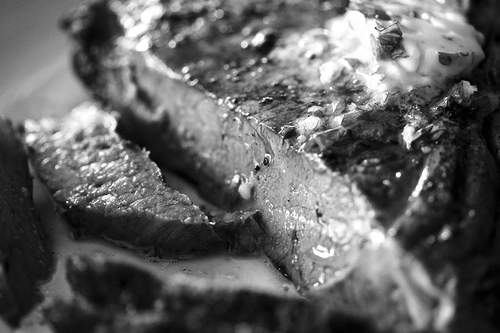
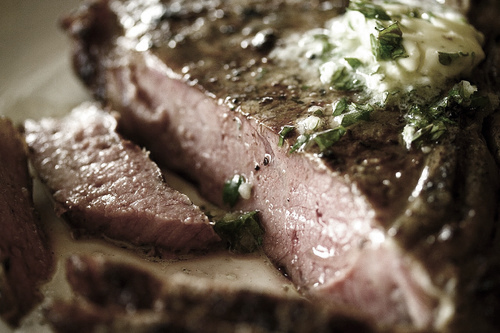
started blog section

diff --git a/app/assets/stylesheets/application.css b/app/assets/stylesheets/application.css
@@ -9,7 +9,7 @@ html,
 body {
   height: 100%;
   background-color: #fff;
-  background: url(/assets/grilled-steak.jpg) no-repeat center center fixed; 
+  background: url(grilled-steak.jpg) no-repeat center center fixed; 
   -webkit-background-size: cover;
   -moz-background-size: cover;
   -o-background-size: cover;
@@ -19,8 +19,30 @@ body {
 a { text-decoration: none; }
 a:hover { text-decoration: none; } 
 
+.panel-logged-in img 
+{
+  width: 280px;
+  height: 400px;
+  filter: grayscale(100%);
+  -webkit-filter: grayscale(100%);  /* For Webkit browsers */
+  filter: gray;  /* For IE 6 - 9 */
+  -webkit-transition: all .6s ease;  /* Transition for Webkit browsers */
+}
+
+.panel-logged-in img:hover 
+{
+  width: 280px;
+  height: 400px;
+  filter: none;
+  -webkit-filter: grayscale(0%);
+}
+
 .navbar {
-    background: rgba(0,0,0,0.7);
+  background: rgba(0,0,0,0.85);
+
+  box-shadow: inset 0 1px #000, 0 1px 3px rgba(34,25,25,0.4);
+  -moz-box-shadow: inset 0 1px #000, 0 1px 3px rgba(34,25,25,0.4);
+  -webkit-box-shadow: inset 0 1px #000, 0 1px 3px rgba(34,25,25,0.4);
 }
 
 h1, caption {
@@ -41,11 +63,16 @@ h2, legend {
 /* Override B3 .panel adding a subtly transparent background */
 .panel {
   margin-top: 60px;
-  background-color: rgba(0, 0, 0, 0.5);
+  background-color: rgba(0, 0, 0, 0.65);
   border: none;
   -webkit-border-radius: 7px;
   -moz-border-radius: 7px;
   border-radius: 7px;
+}
+
+.panel-logged-in {  
+  float: left;
+  overflow: hidden;
 }
 
 .white-font { color: white; }
@@ -59,7 +86,7 @@ h2, legend {
 }
 
 .background-landing {
-  background: url(/assets/grilled-steak-bw.jpg) no-repeat center center fixed; 
+  background: url(grilled-steak-bw.jpg) no-repeat center center fixed; 
   -webkit-background-size: cover;
   -moz-background-size: cover;
   -o-background-size: cover;

diff --git a/app/controllers/restaurant_controller.rb b/app/controllers/restaurant_controller.rb
@@ -1,0 +1,32 @@
+class RestaurantController < ApplicationController
+
+  def new
+    # Do something
+    @restaurants = Restaurant.all.entries
+  end
+
+  def create
+
+    @restaurants = Restaurant.all.entries
+    # is the restaurant name blank?
+    if !params[:restaurant][:name].blank?
+      @restaurant = Restaurant.new
+      @restaurant.id = SecureRandom.urlsafe_base64
+      @restaurant.name = params[:restaurant][:name]
+      @restaurant.address = params[:restaurant][:address]      
+      @restaurant.review = params[:restaurant][:review]
+      @restaurant.author = current_user.name
+      @restaurant.save
+
+      @restaurants = Restaurant.all.entries
+
+      render :new
+      flash.now[:notice] = "Thank you for your review. Your comments have been posted."
+    else
+      flash.now[:error] = "Please put in restaurant's name."
+      render :new
+    end
+
+  end
+
+end

diff --git a/app/controllers/session_controller.rb b/app/controllers/session_controller.rb
@@ -16,8 +16,7 @@ class SessionController < ApplicationController
 
         UserMailer.reset_email(@user, request).deliver
         
-        flash.now[:notice] = "An email with instructions for " +
-          "reseting your password has been sent to you."
+        flash.now[:notice] = "An email with instructions for reseting your password has been sent to you."
         render :new
       else
         @registrant = Registrant.new
@@ -25,7 +24,7 @@ class SessionController < ApplicationController
         @registrant.email = params[:user][:email]
         @registrant.expires_at = Time.now + 1.day
         @registrant.save
-        
+
         UserMailer.registration_email(@registrant, request).deliver
         
         flash.now[:notice] = "An email with instructions for completing your registration has been sent to you."

diff --git a/app/controllers/subscription_controller.rb b/app/controllers/subscription_controller.rb
@@ -1,15 +1,22 @@
 class SubscriptionController < ApplicationController
+  
   def create
-    # Build Subscriber model
-    @subscriber = Subscriber.new(params[:email])
+    # Build Subscriber model - done
+    @subscriber = Subscriber.create(email: params[:subscriber][:email])
+
     
     if @subscriber.save
-      # TODO send email
-      # Do Noty
-      redirect_to root_url, notice: "Thank you for subscribing!"
+      
+      UserMailer.subscribe_email(@subscriber, request).deliver
+      
+      render :new, layout: "layouts/landing"
+    
     else
-      # Do Noty
-      redirect_to root_url, error: "Something went wrong. Please check your data and try again."
+      
+      redirect_to root_url
     end
+  
   end
+
+
 end

diff --git a/app/mailers/user_mailer.rb b/app/mailers/user_mailer.rb
@@ -15,9 +15,11 @@ class UserMailer < ActionMailer::Base
     mail to: @registrant.email, subject: "Beefcrazy: Complete your registration"
   end
 
-  def subscribe_email(subscribe, request)
+  def subscribe_email(subscriber, request)
     @subscriber = subscriber
     @host = request.protocol + request.host_with_port
     
     mail to: @subscriber.email, subject: "Beefcrazy: Thanks for your interest"
+  end
+  
 end

diff --git a/config/routes.rb b/config/routes.rb
@@ -20,6 +20,13 @@ Beefcrazy::Application.routes.draw do
   root 'site#index'
 
   # General subscriber mailer
-  post 'subscribe' => 'subscription#create'
+  post 'subscribe' => 'subscription#create', as: :subscribe
+
+  # resources :restaurant
+  # Restaurant Review section
+  get  'restaurant' => 'restaurant#new', as: :restaurant
+  post 'restaurant' => 'restaurant#create'
+
+  # Commenting section
   
 end

diff --git a/app/models/restaurant.rb b/app/models/restaurant.rb
@@ -1,0 +1,16 @@
+class Restaurant
+  include Mongoid::Document
+  include Mongoid::Timestamps
+  
+  has_many :comments
+
+  field :id, type: String
+  field :name, type: String  
+  field :address, type: String
+  field :review, type: String
+  
+  field :author, type: String
+
+  validates :name, presence: true
+  
+end

diff --git a/app/models/comment.rb b/app/models/comment.rb
@@ -1,0 +1,13 @@
+class Comment
+  include Mongoid::Document
+  include Mongoid::Timestamps
+  
+  belongs_to :restaurant
+
+  field :id, type: String
+  field :remark, type: String
+  field :user, type: String
+
+  validates :remark, presence: true
+  
+end

diff --git a/app/models/subscriber.rb b/app/models/subscriber.rb
@@ -1,0 +1,10 @@
+class Subscriber
+  include Mongoid::Document
+  include Mongoid::Timestamps
+  
+  field :id, type: String
+  field :email, type: String
+
+  validates :email, presence: true
+  
+end

diff --git a/app/controllers/site_controller.rb b/app/controllers/site_controller.rb
@@ -13,7 +13,6 @@ class SiteController < ApplicationController
 
   def logged_in
     @users = User.all.entries
-    
   end
   
   def privacy
